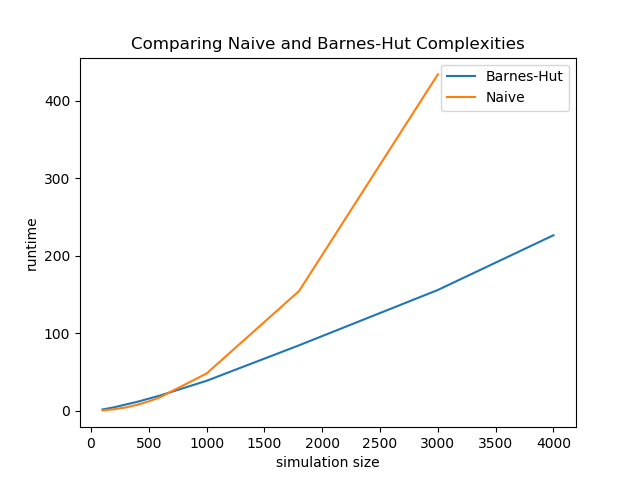
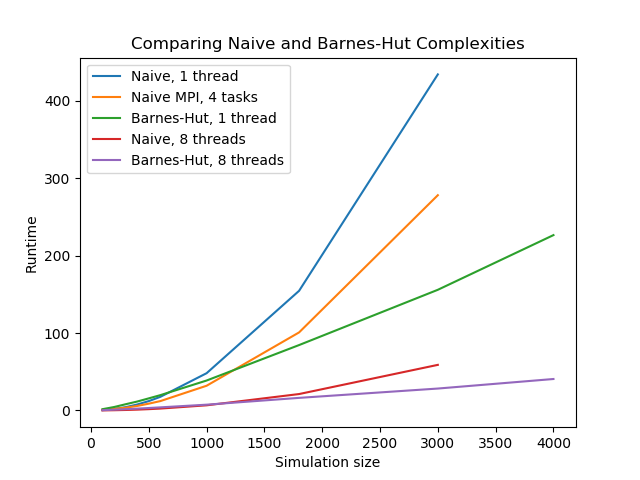
more plots

diff --git a/plots/plots.py b/plots/plots.py
@@ -2,156 +2,176 @@ import numpy as np
 import matplotlib.pyplot as plt
 
 
-threads = [1,2,3,4,5,6,7,8]
-
-naive_200 = [1,
-1.902418316,
-2.770583215,
-3.593385291,
-4.363267402,
-5.320462219,
-6.086717785,
-6.314405632]
-
-bh_200 = [1,
-1.707503158,
-2.29308753,
-2.800334601,
-3.333483046,
-3.800381114,
-4.202925353,
-4.485626752]
-
-mpi_cores = [1,2,4,8]
-
-naivempi_200 = [1,
-1.719008124,
-2.336504086,
-1.84885406]
-
-
-
-naivempi_600 = [1,
-1.91667029,
-3.57399645,
-5.672715268]
-
-naive_600 = [1,
-1.913102955,
-2.786122694,
-3.713057601,
-4.608205028,
-5.506942101,
-6.390209825,
-7.155778284]
-
-bh_600 = [0.9999999998,
-1.714829618,
-2.358118033,
-2.985696396,
-3.517673651,
-4.077462303,
-4.530600021,
-4.918268292]
-
-plt.plot(threads, naive_600, label='Naive, n=600')
-plt.plot(threads, naive_200, label='Naive, n=200')
-plt.plot(mpi_cores, naivempi_600, label='Naive MPI, n=600')
-plt.plot(threads, bh_600, label='Barnes-Hut, n=600')
-plt.plot(threads, bh_200, label='Barnes-Hut, n=200')
-plt.plot(mpi_cores, naivempi_200, label='Naive MPI, n=200')
-
-plt.legend()
-plt.title('Speedup Ratios vs Threads/Cores')
-plt.xlabel('Parallel threads/cores')
-plt.ylabel('Speedup')
-plt.savefig('speedup_vs_threads.png')
-plt.show()
-
-
-
-
-
-
-
-n = [100	,200	,300,	400	,500,	600	,1000,	1800,	3000]
-
-bh_2 = [1.653943368,	1.707503158,	1.77340194,	1.710811489,	1.722160122	,1.714829618,	1.764083443	,1.819176349	,1.806516695]
-bh_8 = [4.191688569,	4.485626752	,4.876284492,	4.814725046,	4.906051619,	4.918268293	,5.162892289,	5.190037806	,5.503589186]
-
-naive_2 = [1.874402792,	1.902418316,	1.867352024,	1.914925152	,1.90491911,	1.913102955,	1.87307007,	1.893697435	,1.897263513]
-naive_8 = [4.919397634,	6.314405632,	6.69967005,	7.057145579	,7.096011869,	7.155778284,	7.222033439,	7.283994136,	7.367682087]
-
-naive_mpi_2 = [0.5008829472	,0.7047452799,	0.7210326318,	0.7466389801,	0.7627926968,	0.7794331933,	0.7792739631,	0.7739602591,	0.7803132518]
-
-naive_mpi_4 = [0.4458779638,	0.9579013633,	1.20204626,	1.314059206,	1.376933097	,1.453401496,	1.507227445,	1.532864069	,1.561133551]
-
-plt.plot(n, naive_8, label='Naive, 8 threads')
-plt.plot(n, bh_8, label='Barnes-Hut, 8 threads')
-plt.plot(n, naive_2, label='Naive, 2 threads')
-plt.plot(n, bh_2, label='Barnes-Hut, 2 threads')
-plt.plot(n, naive_mpi_4, label='Naive MPI, 4 tasks')
-plt.plot(n, naive_mpi_2, label='Naive MPI, 2 tasks')
-plt.legend()
-plt.xlabel('n')
-plt.ylabel('Speedup')
-plt.title('Speedup Ratios vs Simulation Size')
-plt.savefig('speedup_vs_n.png')
-plt.show()
-
-
-
-
-
-
-
-
-
-
-
-
-
-
-
-
-
-
-
-
-
-
-# n_b =[ 100,
-# 	200,
-#     	300	,
-#         400	,
-#         500	,
-#         600,
-#         	1000
-# ,            	1800
-# ,                3000
-# ,                	4000]
+# threads = [1,2,3,4,5,6,7,8]
 #
-# t_b = [1.6809258,	4.468020667,	8.056646,	11.545364,	15.64071333,	19.80075633	,38.669263,	84.460101,	155.81142,	226.409964]
+# naive_200 = [1,
+# 1.902418316,
+# 2.770583215,
+# 3.593385291,
+# 4.363267402,
+# 5.320462219,
+# 6.086717785,
+# 6.314405632]
 #
-# n_n =[ 100,
-# 	200,
-#     	300	,
-#         400	,
-#         500	,
-#         600,
-#         	1000
-# ,            	1800
-# ,                3000]
-# t_n =[0.480207,	1.996413,	4.286402,	7.705542,	12.110508,	17.622435,	48.121326,	154.50399,	433.893076]
+# bh_200 = [1,
+# 1.707503158,
+# 2.29308753,
+# 2.800334601,
+# 3.333483046,
+# 3.800381114,
+# 4.202925353,
+# 4.485626752]
 #
-# plt.plot(n_b, t_b, label='Barnes-Hut')
-# plt.plot(n_n, t_n, label='Naive')
-# plt.title('Comparing Naive and Barnes-Hut Complexities')
-# plt.xlabel('simulation size')
-# plt.ylabel('runtime')
+# mpi_cores = [1,2,4,8]
+#
+# naivempi_200 = [1,
+# 1.719008124,
+# 2.336504086,
+# 1.84885406]
+#
+#
+#
+# naivempi_600 = [1,
+# 1.91667029,
+# 3.57399645,
+# 5.672715268]
+#
+# naive_600 = [1,
+# 1.913102955,
+# 2.786122694,
+# 3.713057601,
+# 4.608205028,
+# 5.506942101,
+# 6.390209825,
+# 7.155778284]
+#
+# bh_600 = [0.9999999998,
+# 1.714829618,
+# 2.358118033,
+# 2.985696396,
+# 3.517673651,
+# 4.077462303,
+# 4.530600021,
+# 4.918268292]
+#
+# plt.plot(threads, naive_600, label='Naive, n=600')
+# plt.plot(threads, naive_200, label='Naive, n=200')
+# plt.plot(mpi_cores, naivempi_600, label='Naive MPI, n=600')
+# plt.plot(threads, bh_600, label='Barnes-Hut, n=600')
+# plt.plot(threads, bh_200, label='Barnes-Hut, n=200')
+# plt.plot(mpi_cores, naivempi_200, label='Naive MPI, n=200')
+#
 # plt.legend()
-# plt.savefig('barnes_hut_naive_comparison.png')
+# plt.title('Speedup Ratios vs Threads/Cores')
+# plt.xlabel('Parallel threads/cores')
+# plt.ylabel('Speedup')
+# plt.savefig('speedup_vs_threads.png')
 # plt.show()
+#
+#
+#
+#
+#
+#
+#
+# n = [100	,200	,300,	400	,500,	600	,1000,	1800,	3000]
+#
+# bh_2 = [1.653943368,	1.707503158,	1.77340194,	1.710811489,	1.722160122	,1.714829618,	1.764083443	,1.819176349	,1.806516695]
+# bh_8 = [4.191688569,	4.485626752	,4.876284492,	4.814725046,	4.906051619,	4.918268293	,5.162892289,	5.190037806	,5.503589186]
+#
+# naive_2 = [1.874402792,	1.902418316,	1.867352024,	1.914925152	,1.90491911,	1.913102955,	1.87307007,	1.893697435	,1.897263513]
+# naive_8 = [4.919397634,	6.314405632,	6.69967005,	7.057145579	,7.096011869,	7.155778284,	7.222033439,	7.283994136,	7.367682087]
+#
+# naive_mpi_2 = [0.5008829472	,0.7047452799,	0.7210326318,	0.7466389801,	0.7627926968,	0.7794331933,	0.7792739631,	0.7739602591,	0.7803132518]
+#
+# naive_mpi_4 = [0.4458779638,	0.9579013633,	1.20204626,	1.314059206,	1.376933097	,1.453401496,	1.507227445,	1.532864069	,1.561133551]
+#
+# plt.plot(n, naive_8, label='Naive, 8 threads')
+# plt.plot(n, bh_8, label='Barnes-Hut, 8 threads')
+# plt.plot(n, naive_2, label='Naive, 2 threads')
+# plt.plot(n, bh_2, label='Barnes-Hut, 2 threads')
+# plt.plot(n, naive_mpi_4, label='Naive MPI, 4 tasks')
+# plt.plot(n, naive_mpi_2, label='Naive MPI, 2 tasks')
+# plt.legend()
+# plt.xlabel('n')
+# plt.ylabel('Speedup')
+# plt.title('Speedup Ratios vs Simulation Size')
+# plt.savefig('speedup_vs_n.png')
+# plt.show()
+
+
+
+
+
+
+
+
+
+
+
+
+
+
+
+
+
+
+
+
+
+
+n_b =[ 100,
+	200,
+    	300	,
+        400	,
+        500	,
+        600,
+        	1000
+,            	1800
+,                3000
+,                	4000]
+
+t_b = [1.6809258,	4.468020667,	8.056646,	11.545364,	15.64071333,	19.80075633	,38.669263,	84.460101,	155.81142,	226.409964]
+
+n_n =[ 100,
+	200,
+    	300	,
+        400	,
+        500	,
+        600,
+        	1000
+,            	1800
+,                3000]
+t_n =[0.480207,	1.996413,	4.286402,	7.705542,	12.110508,	17.622435,	48.121326,	154.50399,	433.893076]
+
+naive_8 = [0.097615,	0.316168,	0.639793,	1.091878,	1.706664,	2.462686,	6.663127,	21.211438,	58.891395]
+
+naive_mpi_4 = [1.076992,	2.084153,	3.565921,	5.863923,	8.795277,	12.12496,	31.92705,	100.794319,	277.93463]
+
+bh_8 = [0.401014,	0.996075,	1.65221,	2.397928,	3.188045,	4.025961	,7.489845	,16.273504,	28.310874	,40.628309]
+
+
+plt.plot(n_n, t_n, label='Naive, 1 thread')
+plt.plot(n_n, naive_mpi_4, label='Naive MPI, 4 tasks')
+plt.plot(n_b, t_b, label='Barnes-Hut, 1 thread')
+plt.plot(n_n, naive_8, label='Naive, 8 threads')
+plt.plot(n_b, bh_8, label='Barnes-Hut, 8 threads')
+
+plt.title('Comparing Naive and Barnes-Hut Complexities')
+plt.xlabel('Simulation size')
+plt.ylabel('Runtime')
+plt.legend()
+plt.savefig('barnes_hut_naive_comparison.png')
+plt.show()
+
+
+
+
+
+
+
+
+
 
 
 # thetas = [0,
